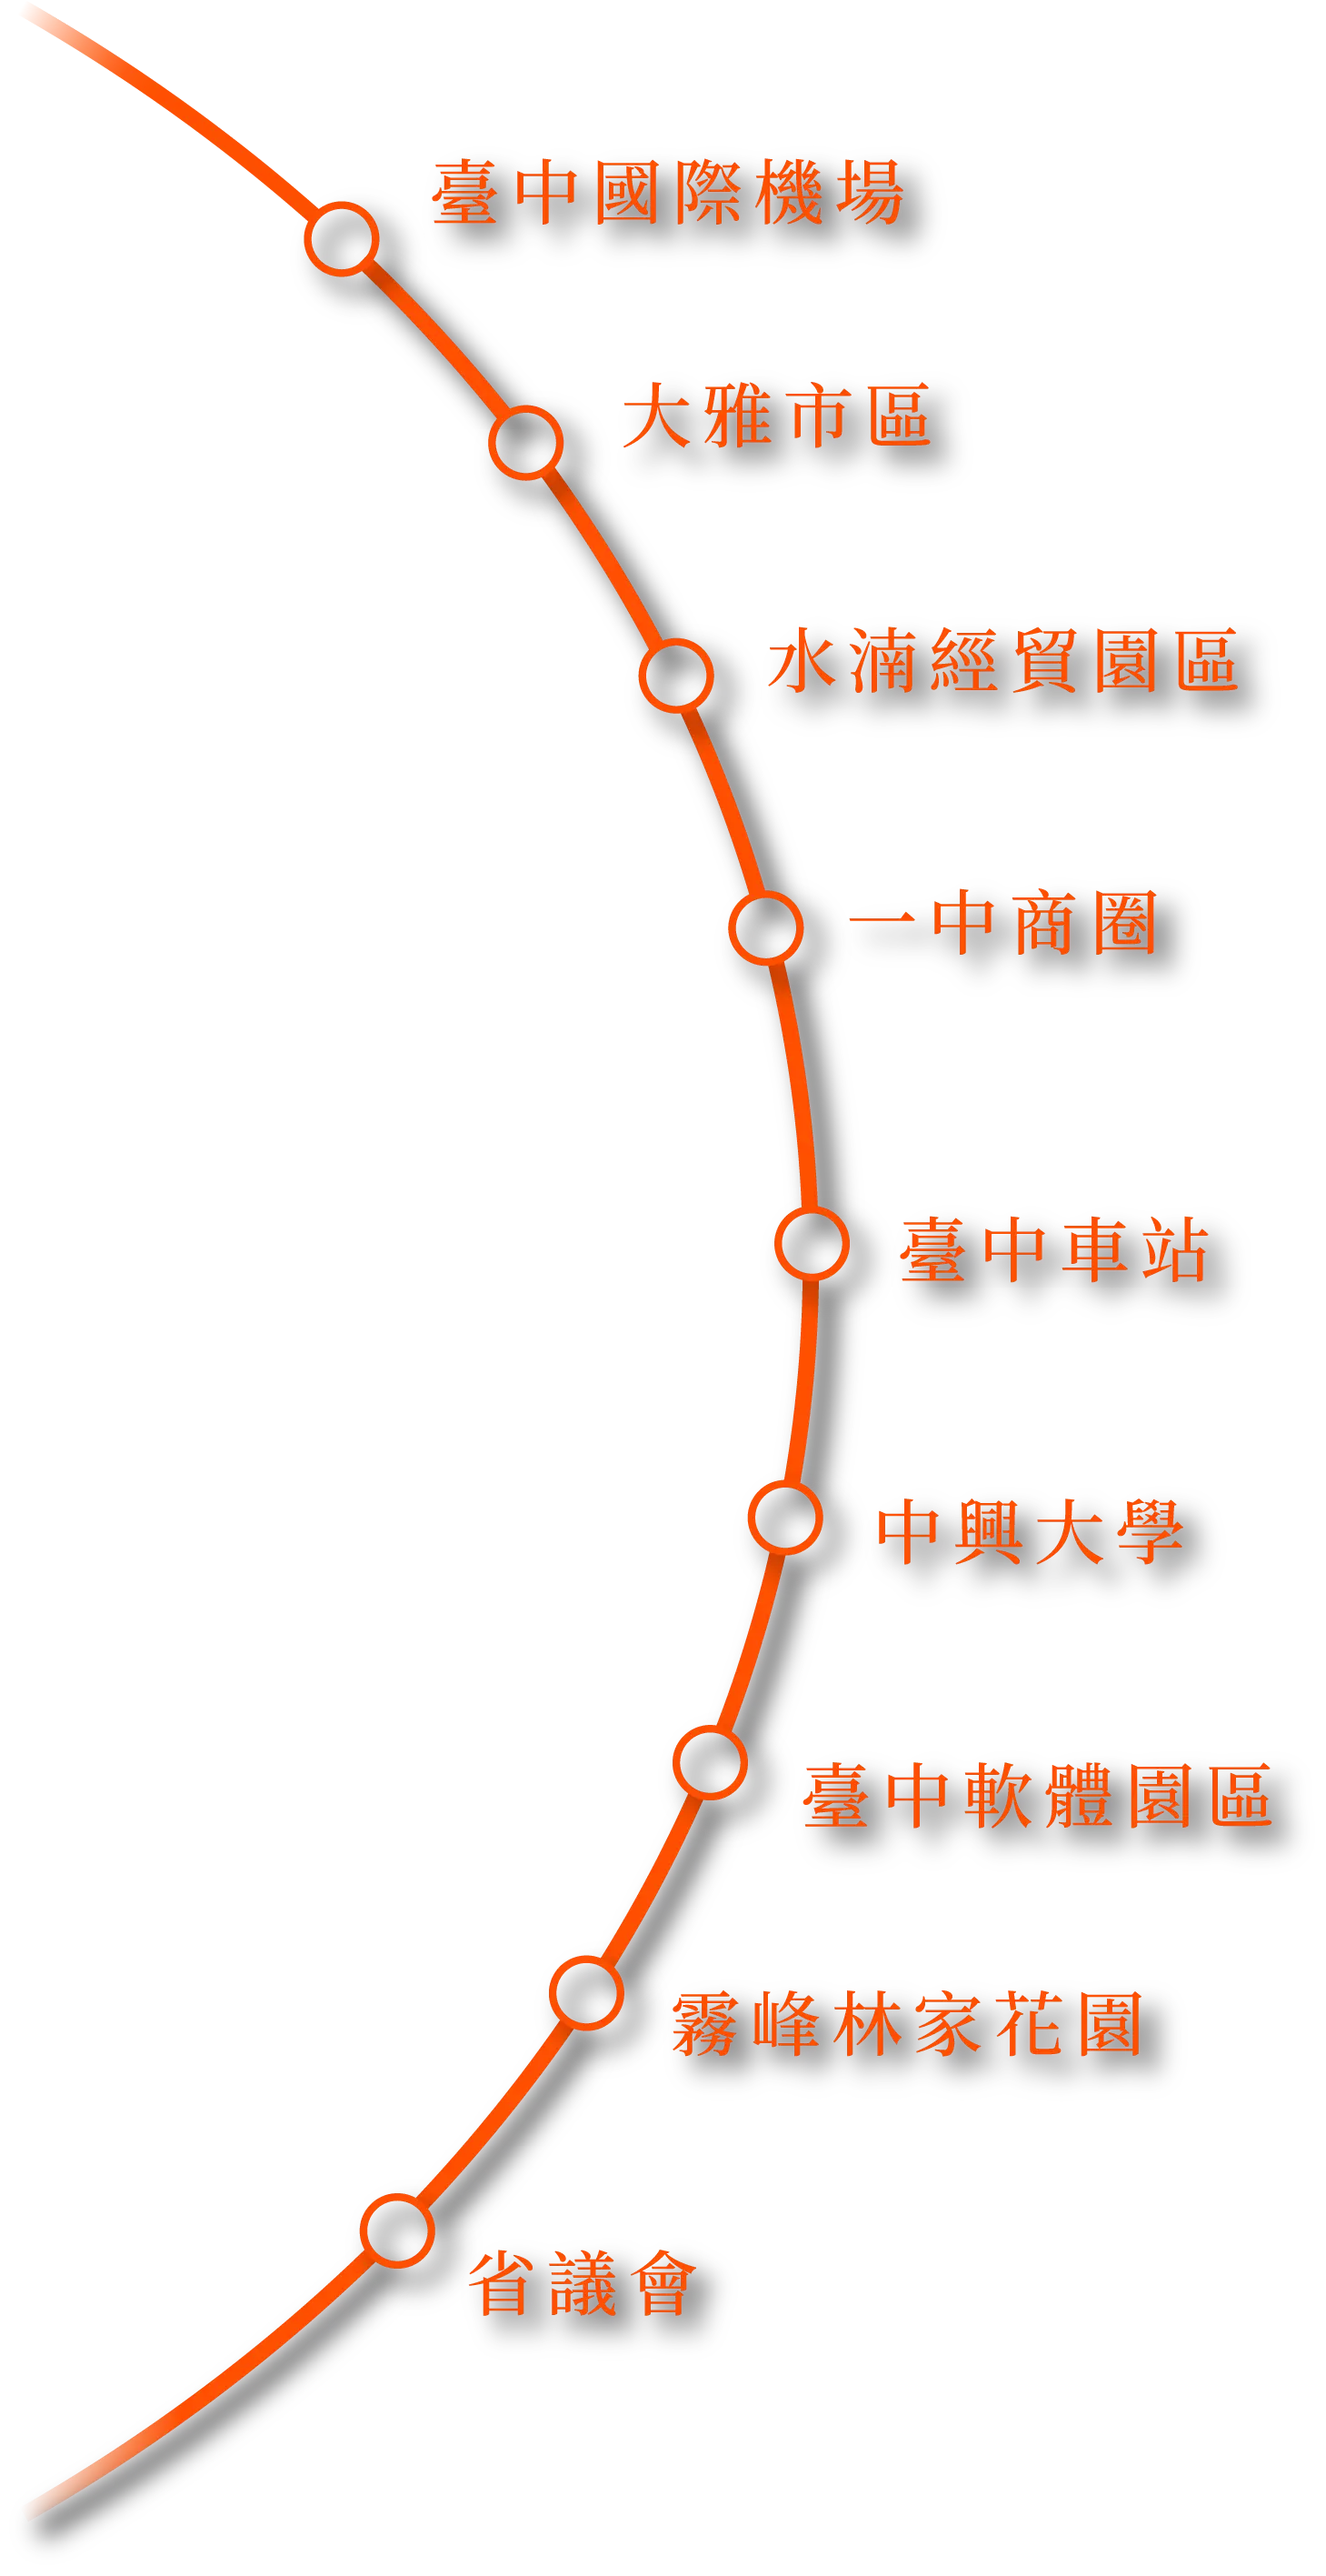
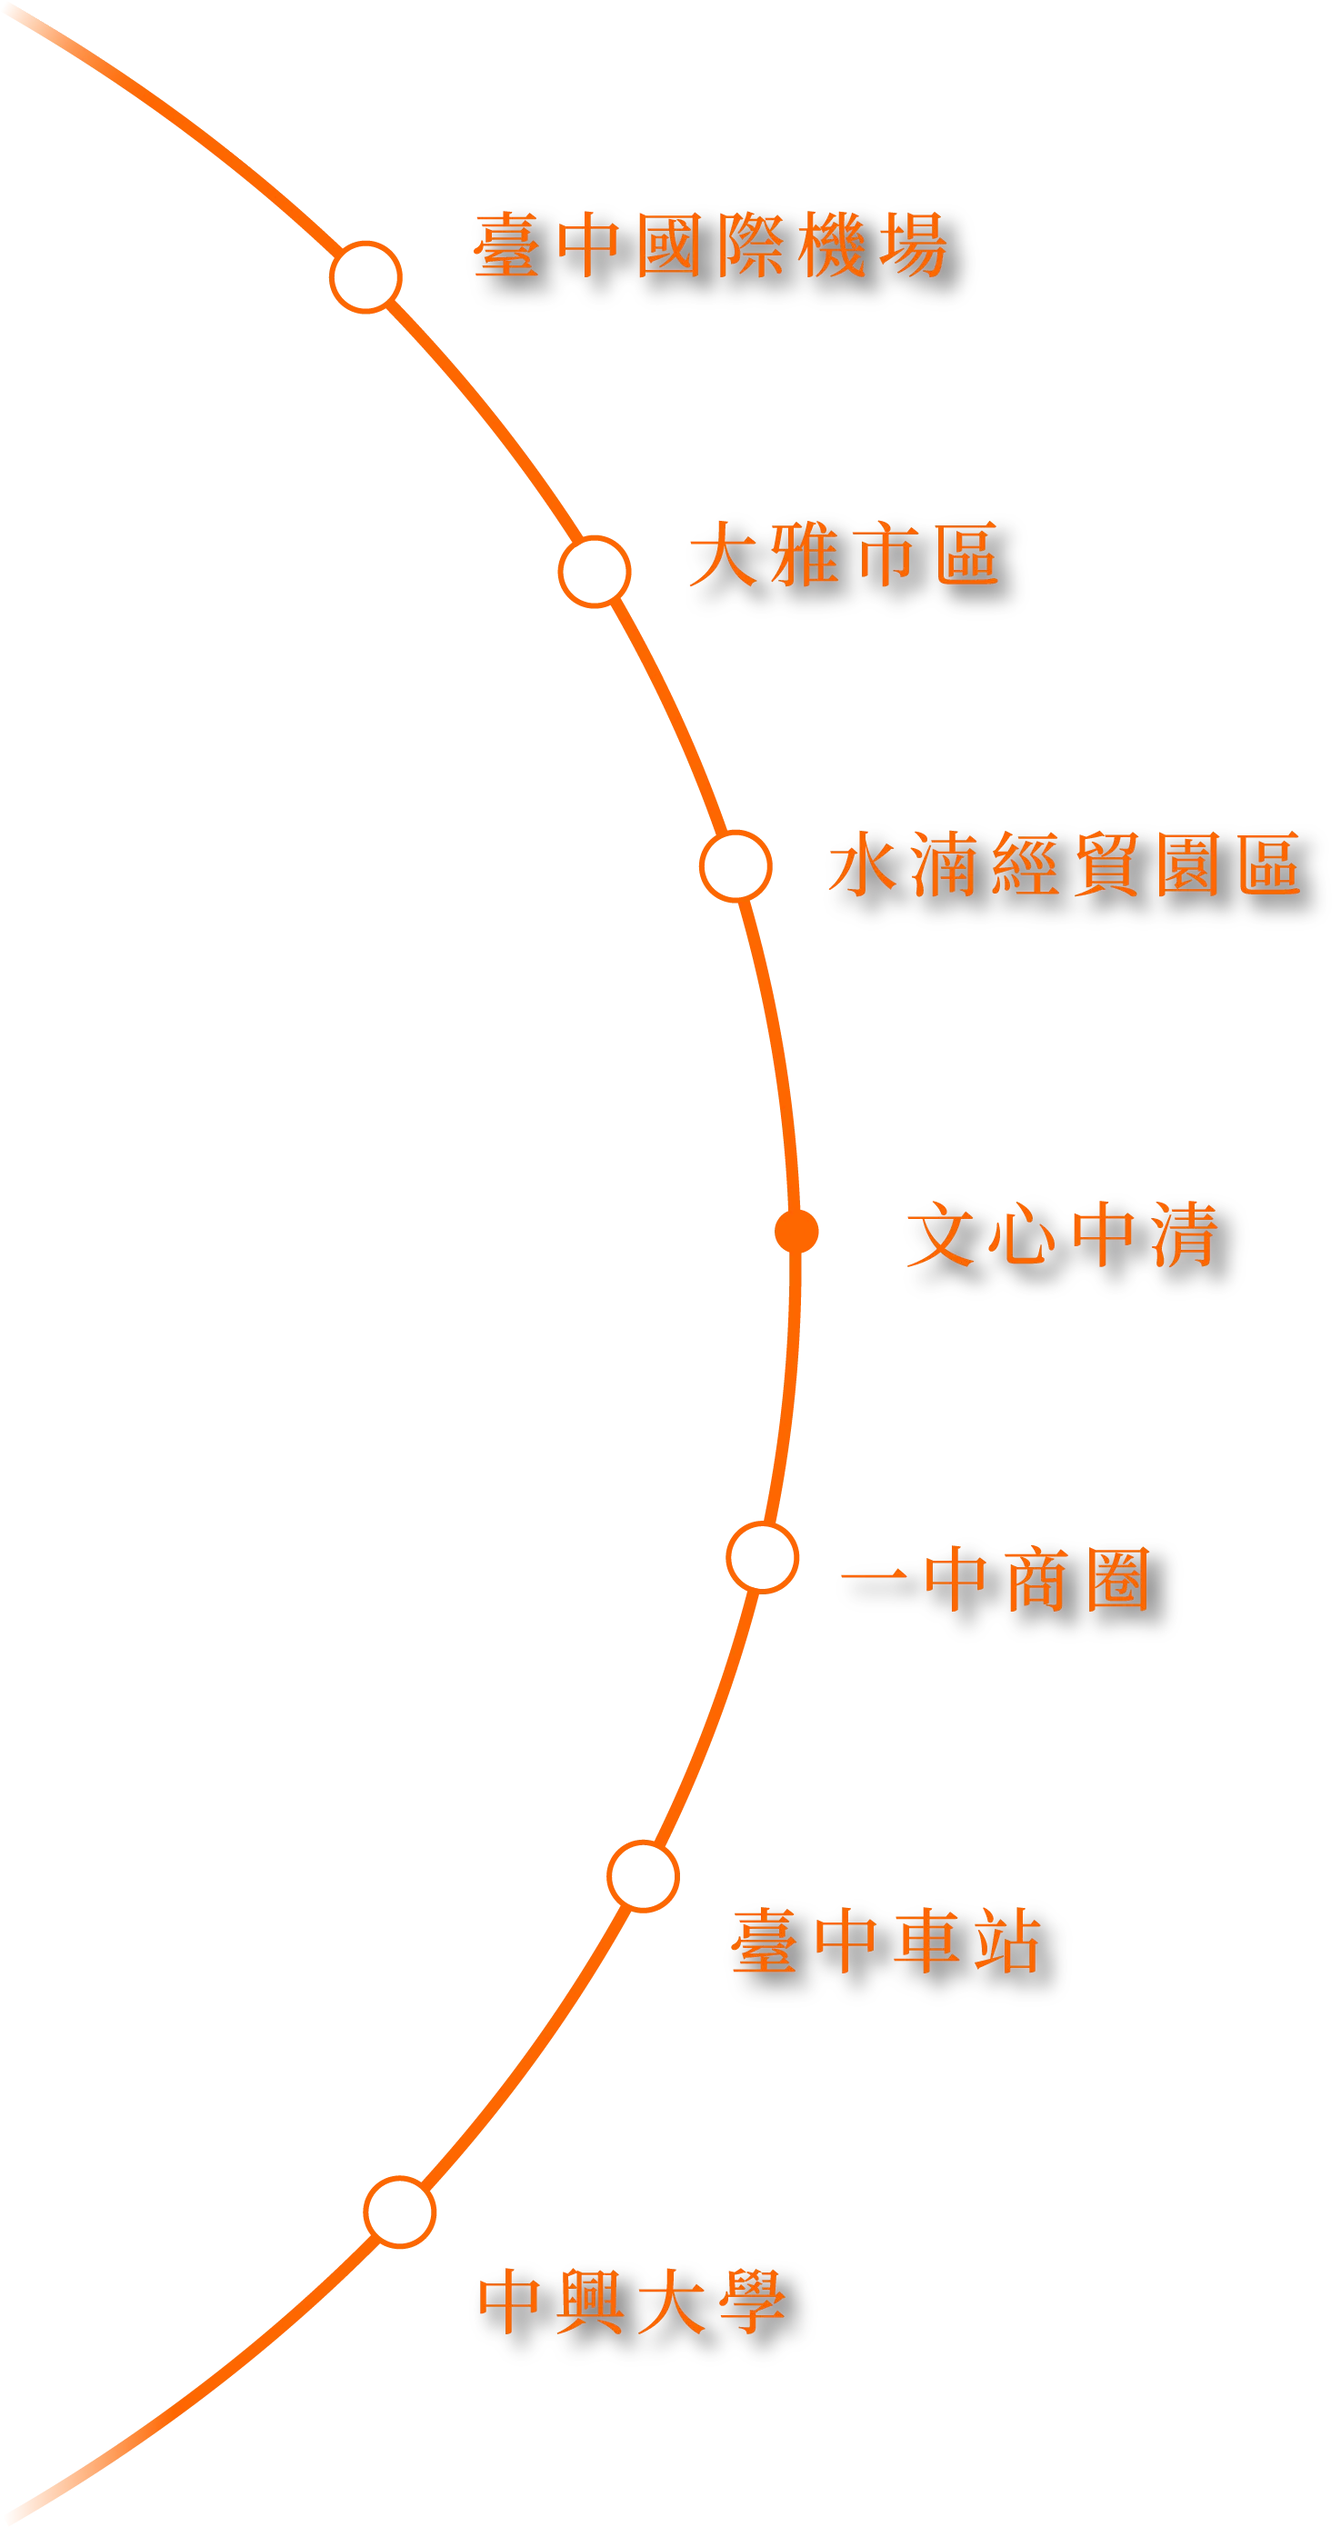
feat. 更改三個捷運詳細內容

Changed region(s): [[0.0, 0.0309, 0.987, 1.0], [0.0, 0.0, 0.0925, 0.0309]]

diff --git a/src/components/metro/OrangeLine.vue b/src/components/metro/OrangeLine.vue
@@ -19,7 +19,7 @@
       <div class="main-content-box">
         <div class="list">
           <div class="small-title orange-small-title">路段│</div>
-          <div class="content">機場段-市區段-屯區段</div>
+          <div class="content">沙鹿-大雅-西屯-北屯-北區-東區-南區-大里-霧峰</div>
         </div>
         <div class="list">
           <div class="small-title orange-small-title">路線長度│</div>
@@ -27,7 +27,13 @@
         </div>
         <div class="list">
           <div class="small-title orange-small-title">計畫進度│</div>
-          <div class="content">2024年交通部已原則同意，待最終審議後核定</div>
+          <div class="content">
+            2025年送交行政院審查，等待核定<br />
+            2026-2027年進入綜合規劃、環評及細部設計<br />
+            2028-2029年工程招標、土地徵收<br />
+            2030-2035年分段動工建設<br />
+            2036-2037年左右全線完工通車
+          </div>
         </div>
 
         <div class="btn" @click="showTaipeiLine = true">
@@ -38,6 +44,13 @@
       <div class="line-img orange-line-img">
         <img src="../../assets/img/metro/orange_line_item.webp" alt="" srcset="" />
       </div>
+
+      <img
+        class="orange-light"
+        src="../../assets/img/metro/orange_light.png"
+        alt="green_line_light"
+        srcset=""
+      />
     </div>
   </div>
 
@@ -116,6 +129,21 @@ const imgAni = () => {
         x: '-90',
       },
       '<-0.35',
+    )
+    // 顯示並啟動光效
+    .to(
+      '.orange-light',
+      {
+        duration: 0.5,
+        autoAlpha: 1, // opacity:1 + visibility:visible
+        onStart: () => {
+          const light = document.querySelector('.orange-light')
+          if (light instanceof HTMLElement) {
+            light.style.animationPlayState = 'running'
+          }
+        },
+      },
+      '<0.7',
     )
 }
 

diff --git a/src/components/metro/RedLine.vue b/src/components/metro/RedLine.vue
@@ -26,7 +26,13 @@
         </div>
         <div class="list">
           <div class="small-title red-small-title">計畫進度│</div>
-          <div class="content">2024年交通部已核定可行性研究</div>
+          <div class="content">
+            2025年完成計畫書並提出期中報告<br />
+            2026年 預計送中央審議<br />
+            2027年 進入細部設計與發包<br />
+            2030年 前後進場動工建設<br />
+            2036年 預估全線完工通車<br />
+          </div>
         </div>
 
         <div class="btn" @click="showTaipeiLine = true">
@@ -37,6 +43,13 @@
       <div class="line-img red-line-img">
         <img src="../../assets/img/metro/red_line_item.webp" alt="" srcset="" />
       </div>
+
+      <img
+        class="red-light"
+        src="../../assets/img/metro/red_light.png"
+        alt="green_line_light"
+        srcset=""
+      />
     </div>
   </div>
 
@@ -116,6 +129,21 @@ const imgAni = () => {
         x: '-90',
       },
       '<-0.35',
+    )
+    // 顯示並啟動光效
+    .to(
+      '.red-light',
+      {
+        duration: 0.5,
+        autoAlpha: 1, // opacity:1 + visibility:visible
+        onStart: () => {
+          const light = document.querySelector('.red-light')
+          if (light instanceof HTMLElement) {
+            light.style.animationPlayState = 'running'
+          }
+        },
+      },
+      '<0.7',
     )
 }
 

diff --git a/src/assets/scss/metro/_metro-light-box.scss b/src/assets/scss/metro/_metro-light-box.scss
@@ -152,10 +152,36 @@
     .light {
       position: absolute;
       mix-blend-mode: plus-lighter;
-      top: 47.3%;
+      top: 48.9%;
       transform: translate(-50%, -50%);
       left: 53.4%;
-      width: 5%;
+      width: 17%;
+      opacity: 0;
+      visibility: hidden;
+      animation: light 2.4s ease-in-out infinite;
+      animation-play-state: paused; /* 先暫停 */
+    }
+
+    .orange-light {
+      position: absolute;
+      mix-blend-mode: plus-lighter;
+      top: 49.6%;
+      transform: translate(-50%, -50%);
+      left: 52.7%;
+      width: 17%;
+      opacity: 0;
+      visibility: hidden;
+      animation: light 2.4s ease-in-out infinite;
+      animation-play-state: paused; /* 先暫停 */
+    }
+
+    .red-light {
+      position: absolute;
+      mix-blend-mode: plus-lighter;
+      top: 49.6%;
+      transform: translate(-50%, -50%);
+      left: 50.25%;
+      width: 17%;
       opacity: 0;
       visibility: hidden;
       animation: light 2.4s ease-in-out infinite;
@@ -240,6 +266,28 @@
         line-height: 1.7;
         color: white;
       }
+    }
+  }
+}
+
+.orange-line-box {
+  .main-box {
+    .title-box {
+      top: 15%;
+    }
+    .main-content-box {
+      top: 33%;
+    }
+  }
+}
+
+.red-line-box {
+  .main-box {
+    .title-box {
+      top: 17%;
+    }
+    .main-content-box {
+      top: 35%;
     }
   }
 }

diff --git a/src/components/metro/GreenLine.vue b/src/components/metro/GreenLine.vue
@@ -34,7 +34,12 @@
       <div class="line-img">
         <img src="../../assets/img/metro/green_line_item.webp" alt="" srcset="" />
       </div>
-      <img class="light" src="../../assets/img/metro/light.png" alt="light" srcset="" />
+      <img
+        class="light"
+        src="../../assets/img/metro/green_line_light.png"
+        alt="green_line_light"
+        srcset=""
+      />
     </div>
   </div>
 
